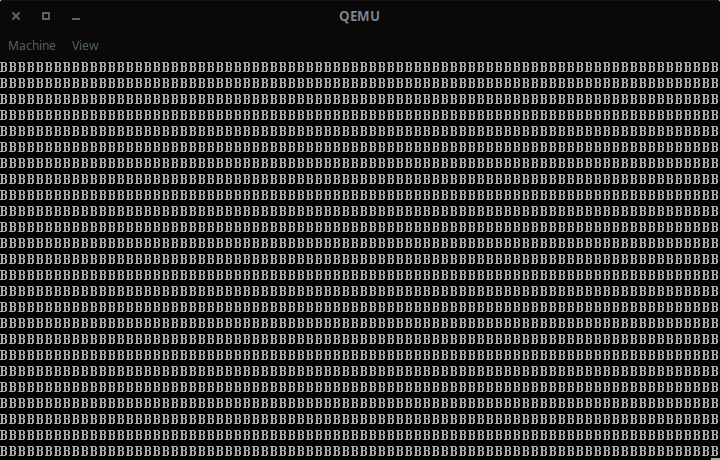
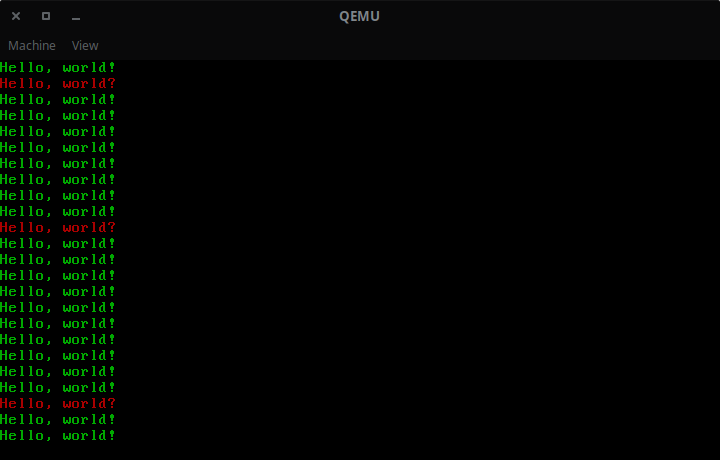
More multitasking stuff

Changed region(s): [[0.0, 0.1217, 1.0, 1.0]]

diff --git a/kernel/task.c b/kernel/task.c
@@ -1,0 +1,244 @@
+#include <e.clair/types.h>
+#include <e.clair/tty.h>
+#include <e.clair/driver/pit.h>
+#include <e.clair/mm/heap.h>
+#include <e.clair/mm/paging.h>
+#include <e.clair/task.h>
+
+#define FREQ 1193
+
+task_t *ktask = NULL;
+task_t *task_active = NULL;
+
+/* task lists */
+struct task_list {
+	task_t *first; /* first item in list */
+	task_t *last; /* last item in list */
+} lists[TASK_NSTATES];
+
+static struct task_list *ready = NULL;
+static struct task_list *paused = NULL;
+static struct task_list *sleeping = NULL;
+
+static uint64_t timens = 0; /* time in nanoseconds */
+
+/* lock counters */
+static uint32_t nlockcli = 0;
+
+uint32_t task_nlockpost = 0;
+uint32_t task_postponed = 0; /* postponed task switches */
+
+extern uint32_t kernel_stack_top;
+
+/* add task to list */
+static void task_add_to_list(struct task_list *list, task_t *task) {
+
+	task->prev = list->last;
+	task->next = list->first;
+	if (!list->first) list->first = task;
+	if (list->last) task->next = list->last;
+}
+
+/* remove task from list */
+static void task_remove_from_list(struct task_list *list, task_t *task) {
+
+	if (list->last == task) list->last = task->prev;
+	if (list->first == task) list->first = task->next;
+	task->prev = NULL;
+	task->next = NULL;
+}
+
+/* move from existing list */
+static void task_move_to_list(struct task_list *dest, struct task_list *src, task_t *task) {
+
+	task_remove_from_list(src, task);
+	task_add_to_list(dest, task);
+}
+
+/* pit irq */
+static void task_irq(idt_regs_t *regs) {
+
+	task_lockpost();
+
+	timens += 1000000000 / PIT_FREQ(FREQ);
+
+	/* wake up sleepers */
+	task_t *cur = sleeping->first;
+	while (cur) {
+
+		task_t *next = cur->next;
+
+		if (timens >= cur->waketime)
+			task_unblock(cur);
+
+		cur = next;
+	}
+
+	task_unlockpost();
+}
+
+/* initialize multitasking */
+extern void task_init(void) {
+
+	ready = &lists[TASK_READY];
+	paused = &lists[TASK_PAUSED];
+	sleeping = &lists[TASK_SLEEPING];
+
+	ktask = task_new(&kernel_stack_top, NULL);
+	ktask->cr3 = page_get_directory();
+	ktask->state = TASK_RUNNING;
+	task_remove_from_list(ready, ktask); /* remove from ready list */
+
+	task_active = ktask;
+
+	/* setup pit */
+	pit_set_callback(task_irq);
+
+	pit_set_mode(PIT_COMMAND(PIT_CHANNEL0, PIT_ACCESS_HILO, PIT_MODE_SQUARE));
+
+	pit_set_channel(PIT_CHANNEL0, FREQ & 0xff);
+	pit_set_channel(PIT_CHANNEL0, (FREQ >> 8) & 0xff);
+}
+
+/* create task */
+extern task_t *task_new(void *esp, void *seteip) {
+
+	task_t *task = (task_t *)kmalloc(sizeof(task_t));
+	task->esp0 = esp;
+	task->esp = esp;
+	task->cr3 = NULL;
+	task->state = TASK_READY;
+
+	task_add_to_list(ready, task);
+
+	/* add eip to stack */
+	if (seteip != NULL) {
+
+		task->esp -= 4;
+		*(uint32_t *)task->esp = (uint32_t)seteip;
+		task->esp -= 16;
+	}
+
+	return task;
+}
+
+/* schedule next task */
+extern void task_schedule(void) {
+
+	if (task_nlockpost) {
+
+		task_postponed = 1;
+		return;
+	}
+
+	/* only schedule if task is available */
+	if (ready->first != NULL) {
+
+		task_t *next = ready->first;
+		task_remove_from_list(ready, next);
+		next->state = TASK_RUNNING;
+
+		if (task_active->state == TASK_RUNNING) {
+
+			task_add_to_list(ready, task_active);
+			task_active->state = TASK_READY;
+		}
+
+		task_switch(next);
+	}
+}
+
+/* lock interrupts */
+extern void task_lockcli(void) {
+
+	asm volatile("cli");
+	nlockcli++;
+}
+
+/* unlock interrupts */
+extern void task_unlockcli(void) {
+
+	if (!(--nlockcli))
+		asm volatile("sti");
+}
+
+/* lock task switches */
+extern void task_lockpost(void) {
+
+	asm volatile("cli");
+	nlockcli++;
+	task_nlockpost++;
+}
+
+/* unlock task switches */
+extern void task_unlockpost(void) {
+
+	if (!(--task_nlockpost) && task_postponed) {
+
+		task_postponed = 0;
+		task_schedule();
+	}
+
+	if (!(--nlockcli))
+		asm volatile("sti");
+}
+
+/* block current task */
+extern void task_block(uint32_t reason) {
+
+	task_lockcli();
+
+	task_active->state = reason;
+	task_add_to_list(&lists[reason], task_active);
+	task_schedule();
+
+	task_unlockcli();
+}
+
+/* unblock task */
+extern void task_unblock(task_t *task) {
+
+	if (task == task_active || task->state == TASK_READY)
+		return;
+
+	task_lockcli();
+
+	task_t *first = ready->first;
+	
+	task_remove_from_list(&lists[task->state], task);
+	task->state = TASK_READY;
+	task_add_to_list(ready, task);
+
+	if (!first) task_schedule();
+
+	task_unlockcli();
+}
+
+/* sleep in nanoseconds until */
+extern void task_nano_sleep_until(uint64_t waketime) {
+
+	task_lockpost();
+
+	if (waketime < timens) {
+
+		task_unlockpost();
+		return;
+	}
+
+	task_active->waketime = waketime;
+	task_block(TASK_SLEEPING);
+
+	task_unlockpost();
+}
+
+/* sleep in nanoseconds */
+extern void task_nano_sleep(uint64_t ns) {
+
+	task_nano_sleep_until(timens + ns);
+}
+
+/* sleep in seconds */
+extern void task_sleep(uint32_t s) {
+
+	task_nano_sleep((uint64_t)s * 1000000000);
+}

diff --git a/include/e.clair/task.h b/include/e.clair/task.h
@@ -1,0 +1,45 @@
+#ifndef ECLAIR_TASK_H
+#define ECLAIR_TASK_H
+
+#include <e.clair/types.h>
+
+#define TASK_READY 0
+#define TASK_RUNNING 1
+#define TASK_PAUSED 2
+#define TASK_SLEEPING 3
+
+#define TASK_NSTATES 4
+
+/* task control block */
+typedef struct task {
+	void *esp0; /* kernel stack top */
+	void *esp; /* current stack position */
+	void *cr3; /* address space */
+	struct task *prev; /* previous task */
+	struct task *next; /* next task */
+	uint32_t state; /* task state */
+	uint64_t waketime; /* wake up time for sleeping task */
+} task_t;
+
+extern task_t *ktask; /* base kernel task */
+extern task_t *task_active; /* active task */
+
+extern uint32_t task_nlockpost; /* number of task switch locks */
+extern uint32_t task_postponed; /* postponed task switches */
+
+/* functions */
+extern void task_init(void); /* initialize multitasking */
+extern task_t *task_new(void *esp, void *seteip); /* create task */
+extern void task_switch(task_t *task); /* switch to next task */
+extern void task_schedule(void); /* schedule next task */
+extern void task_lockcli(void); /* lock interrupts */
+extern void task_unlockcli(void); /* unlock interrupts */
+extern void task_lockpost(void); /* lock task switches */
+extern void task_unlockpost(void); /* unlock task switches */
+extern void task_block(uint32_t reason); /* block current task */
+extern void task_unblock(task_t *task); /* unblock task */
+extern void task_nano_sleep_until(uint64_t waketime); /* sleep in nanoseconds until */
+extern void task_nano_sleep(uint64_t ns); /* sleep in nanoseconds */
+extern void task_sleep(uint32_t s); /* sleep in seconds */
+
+#endif /* ECLAIR_TASK_H */

diff --git a/kernel/main.c b/kernel/main.c
@@ -10,7 +10,15 @@
 #include <e.clair/vfs/fs.h>
 #include <e.clair/fs/mbr.h>
 #include <e.clair/fs/ext2.h>
-#include <e.clair/process.h>
+#include <e.clair/task.h>
+
+#define SBUFSZ 512
+static char sbuf[SBUFSZ];
+
+static task_t *test_task;
+static fs_node_t *ttydev;
+
+static void test_func();
 
 extern void kernel_main() {
 
@@ -23,6 +31,33 @@ extern void kernel_main() {
 	fs_init();
 	tty_init();
 	device_init();
+	task_init();
 
-	tty_printf("Hello, world!\n");
+	ttydev = tty_get_device();
+
+	test_task = task_new(sbuf+SBUFSZ, test_func);
+	test_task->cr3 = ktask->cr3;
+
+	while (true) {
+		
+		tty_printf("\e[32mHello, world!\e[39m\n");
+
+		for (int i = 0; i < 6000000; i++);
+
+		task_lockcli();
+		task_schedule();
+		task_unlockcli();
+	}
+}
+
+static void test_func() {
+
+	task_unlockcli();
+
+	while (true) {
+		
+		tty_printf("\e[31mHello, world?\e[39m\n");
+
+		task_nano_sleep(500000000);
+	}
 }

diff --git a/mod-kernel.py b/mod-kernel.py
@@ -48,11 +48,13 @@ module = {
                             ('main.c'),
                             ('multiboot.c', 'multiboot.h'),
                             ('panic.c', 'panic.h'),
+                            ('task.c', 'task.h'),
                             ('tty.c', 'tty.h'),
                         ),
                     'asm-files': (
                             ('idta.asm', 'idt.h'),
                             ('multiboota.asm', 'multiboot.h'),
+                            ('taska.asm', 'task.h'),
                         )
                 },
             )
